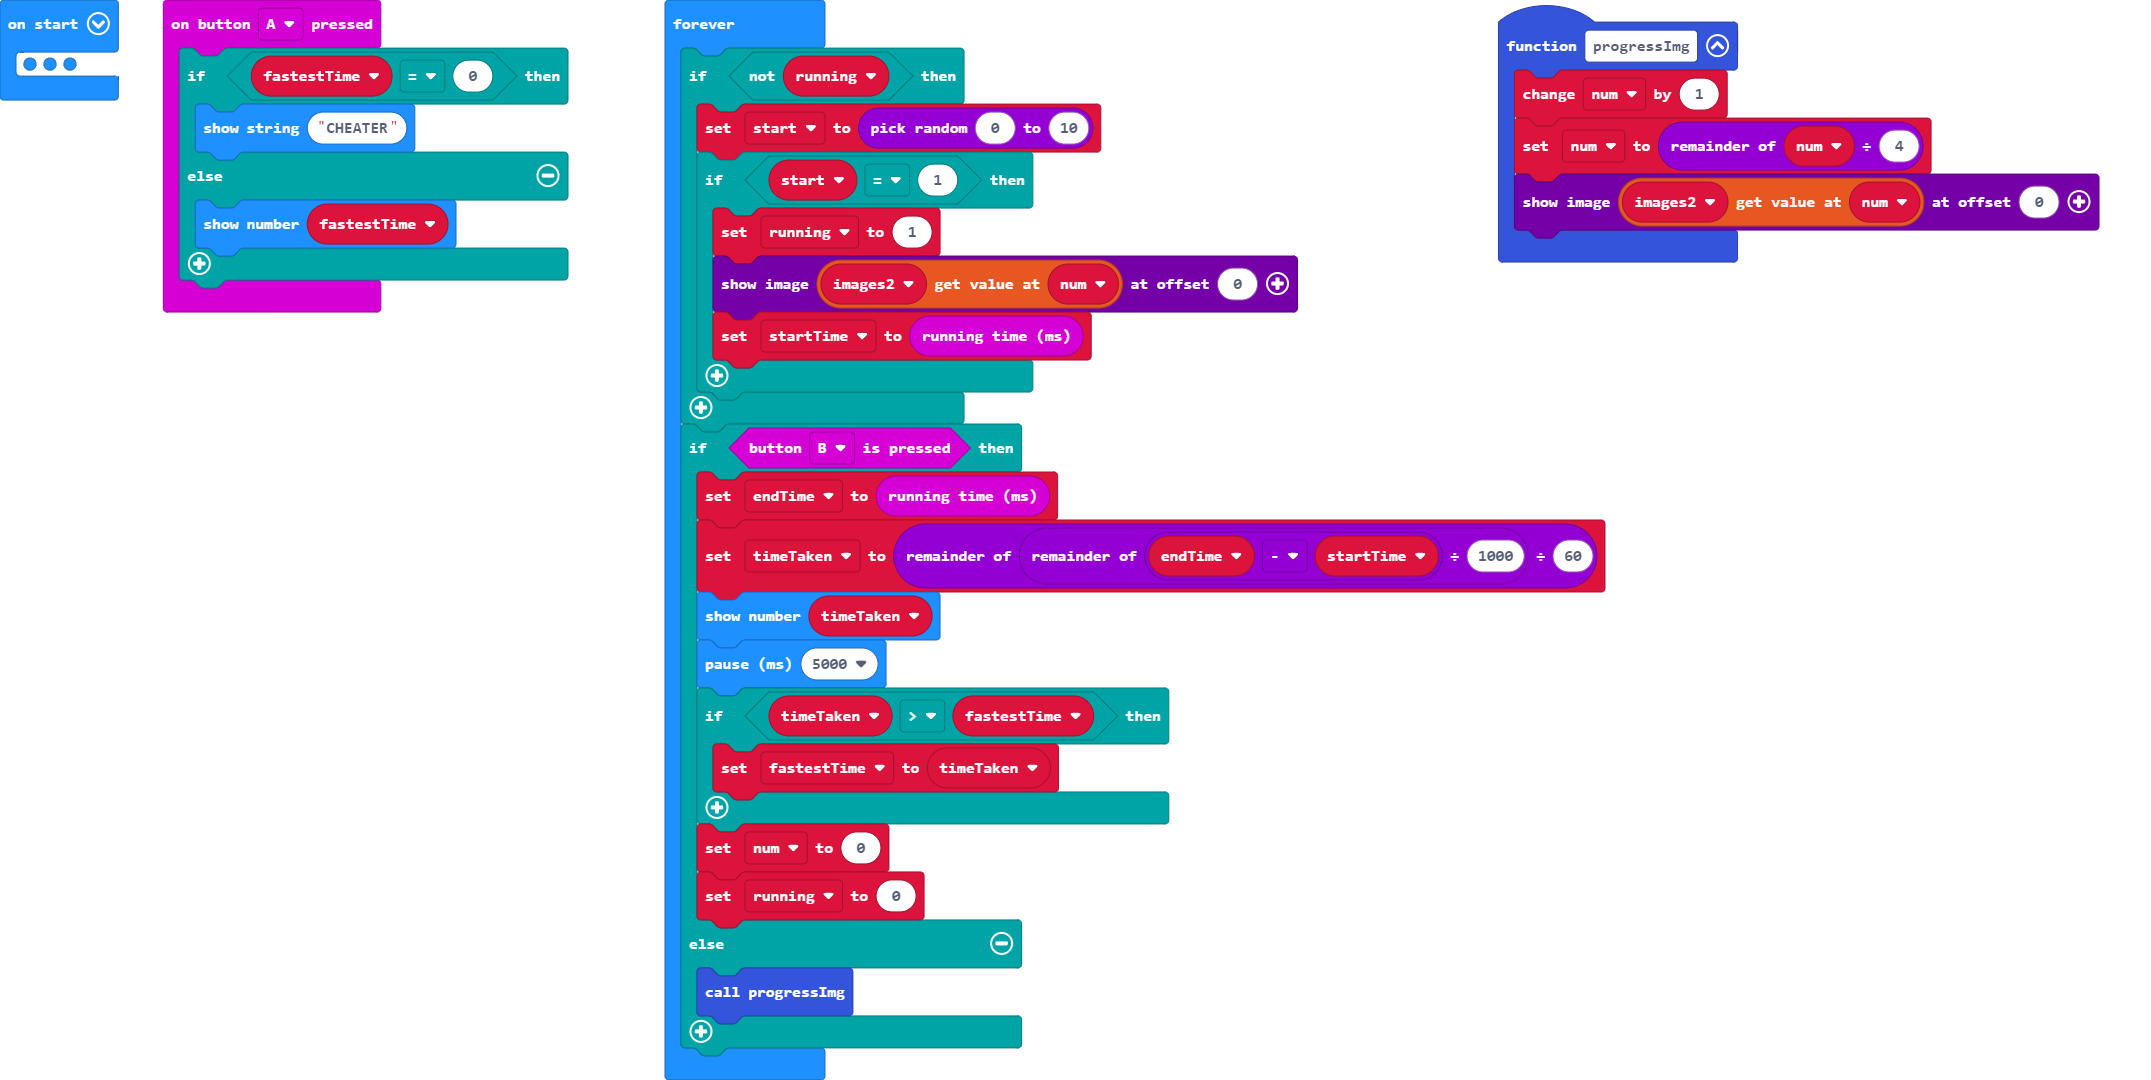
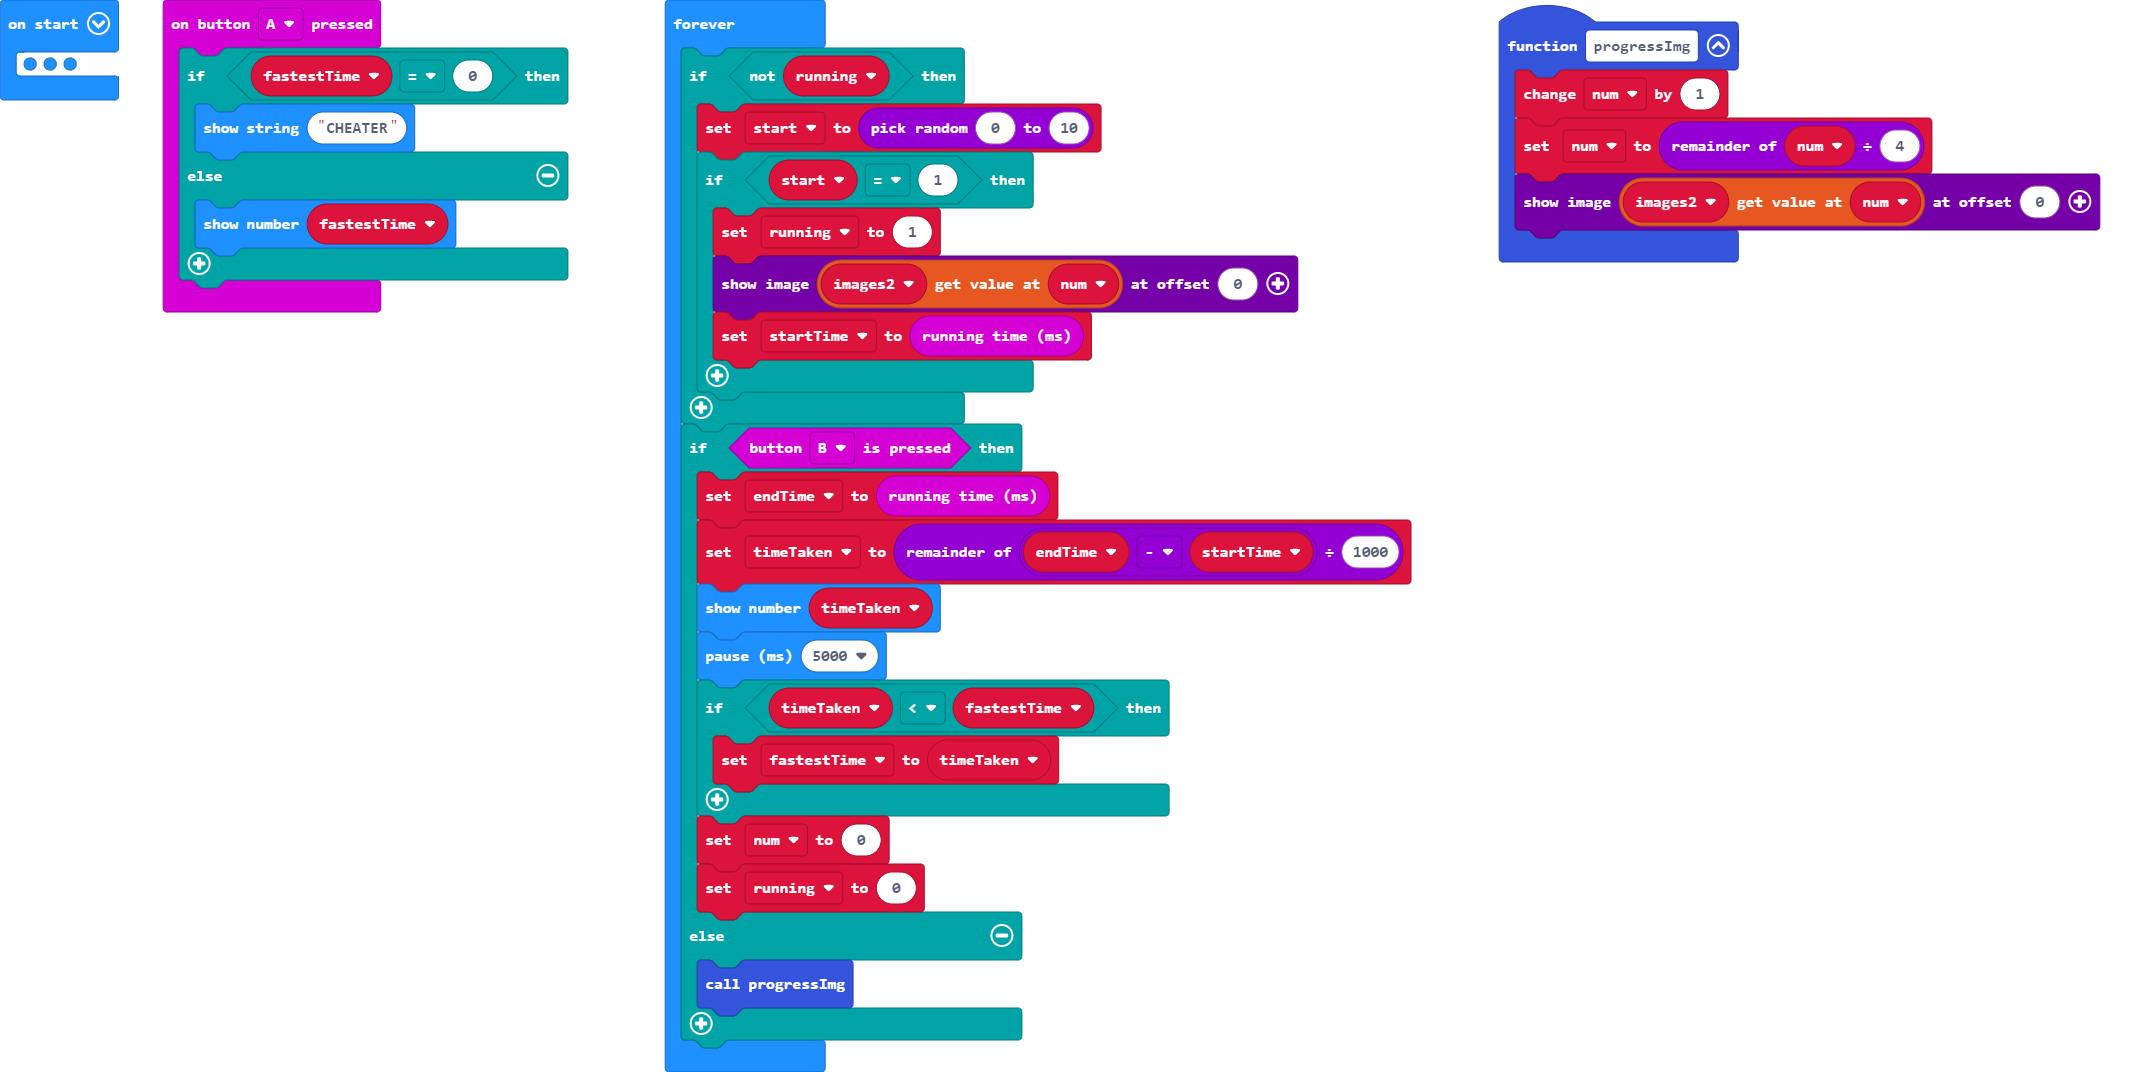
Update pxt.json, main.blocks, main.ts, main.py

diff --git a/main.ts b/main.ts
@@ -1,78 +1,81 @@
-function progressImg () {
-    num += 1
-    num = num % 4
-    images2[num].showImage(0)
-}
-input.onButtonPressed(Button.A, function () {
-    if (fastestTime == 0) {
-        basic.showString("CHEATER")
-    } else {
-        basic.showNumber(fastestTime)
-    }
-})
 let timeTaken = 0
 let endTime = 0
 let startTime = 0
 let start = 0
 let fastestTime = 0
-let images2: Image[] = []
+let images2 : Image[] = []
 let num = 0
 num = 0
 let running = 0
 let goImg = images.createImage(`
     # . . . #
-    . # . # .
-    . . # . .
-    . # . # .
-    # . . . #
-    `)
+        . # . # .
+        . . # . .
+        . # . # .
+        # . . . #
+`)
 let Img2 = images.createImage(`
     . . . # .
-    # . # . .
-    . # # # .
-    . . # . #
-    . # . . .
-    `)
+        # . # . .
+        . # # # .
+        . . # . #
+        . # . . .
+`)
 let img3 = images.createImage(`
     . . # . .
-    . . # . .
-    # # # # #
-    . . # . .
-    . . # . .
-    `)
+        . . # . .
+        # # # # #
+        . . # . .
+        . . # . .
+`)
 let img4 = images.createImage(`
     . # . . .
-    . . # . #
-    . # # # .
-    # . # . .
-    . . . # .
-    `)
-images2 = [
-goImg,
-Img2,
-img3,
-img4
-]
-basic.forever(function () {
-    if (!(running)) {
+        . . # . #
+        . # # # .
+        # . # . .
+        . . . # .
+`)
+images2 = [goImg, Img2, img3, img4]
+function progressImg() {
+    
+    num += 1
+    num = num % 4
+    images2[num].showImage(0)
+}
+
+input.onButtonPressed(Button.A, function on_button_pressed_a() {
+    if (fastestTime == 0) {
+        basic.showString("CHEATER")
+    } else {
+        basic.showNumber(fastestTime)
+    }
+    
+})
+basic.forever(function on_forever() {
+    
+    if (!running) {
         start = randint(0, 10)
         if (start == 1) {
             running = 1
             images2[num].showImage(0)
             startTime = input.runningTime()
         }
+        
     }
+    
     if (input.buttonIsPressed(Button.B)) {
         endTime = input.runningTime()
-        timeTaken = (endTime - startTime) % 1000 % 60
+        timeTaken = (endTime - startTime) % 1000
         basic.showNumber(timeTaken)
         basic.pause(5000)
-        if (timeTaken > fastestTime) {
+        if (timeTaken < fastestTime) {
             fastestTime = timeTaken
         }
+        
         num = 0
         running = 0
     } else {
         progressImg()
     }
+    
 })

diff --git a/main.py b/main.py
@@ -1,13 +1,3 @@
-def progressImg():
-    global num
-    num += 1
-    num = num % 4
-    images2[num].show_image(0)
-
-def on_button_pressed_a():
-    basic.show_number(fastestTime)
-input.on_button_pressed(Button.A, on_button_pressed_a)
-
 timeTaken = 0
 endTime = 0
 startTime = 0
@@ -18,34 +8,49 @@ num = 0
 num = 0
 running = 0
 goImg = images.create_image("""
-    . . . . #
+    # . . . #
+        . # . # .
+        . . # . .
+        . # . # .
         # . . . #
-        # . # . #
-        # . . . #
-        # . . . .
 """)
 Img2 = images.create_image("""
-    . . # # #
-        . . . . #
-        . . # . .
-        # . . . .
-        # # # . .
+    . . . # .
+        # . # . .
+        . # # # .
+        . . # . #
+        . # . . .
 """)
 img3 = images.create_image("""
-    # # # # .
-        . . . . .
+    . . # . .
         . . # . .
-        . . . . .
-        . # # # #
+        # # # # #
+        . . # . .
+        . . # . .
 """)
 img4 = images.create_image("""
-    # # . . .
-        # . . . .
-        # . # . #
-        . . . . #
-        . . . # #
+    . # . . .
+        . . # . #
+        . # # # .
+        # . # . .
+        . . . # .
 """)
 images2 = [goImg, Img2, img3, img4]
+
+def progressImg():
+    global num
+    num += 1
+    num = num % 4
+    images2[num].show_image(0)
+
+def on_button_pressed_a():
+    if fastestTime == 0:
+        basic.show_string("CHEATER")
+    else:
+        basic.show_number(fastestTime)
+input.on_button_pressed(Button.A, on_button_pressed_a)
+
+
 
 def on_forever():
     global start, running, startTime, endTime, timeTaken, fastestTime, num
@@ -57,10 +62,10 @@ def on_forever():
             startTime = input.running_time()
     if input.button_is_pressed(Button.B):
         endTime = input.running_time()
-        timeTaken = endTime - startTime
+        timeTaken = (endTime - startTime) % 1000
         basic.show_number(timeTaken)
         basic.pause(5000)
-        if timeTaken > fastestTime:
+        if timeTaken < fastestTime:
             fastestTime = timeTaken
         num = 0
         running = 0
